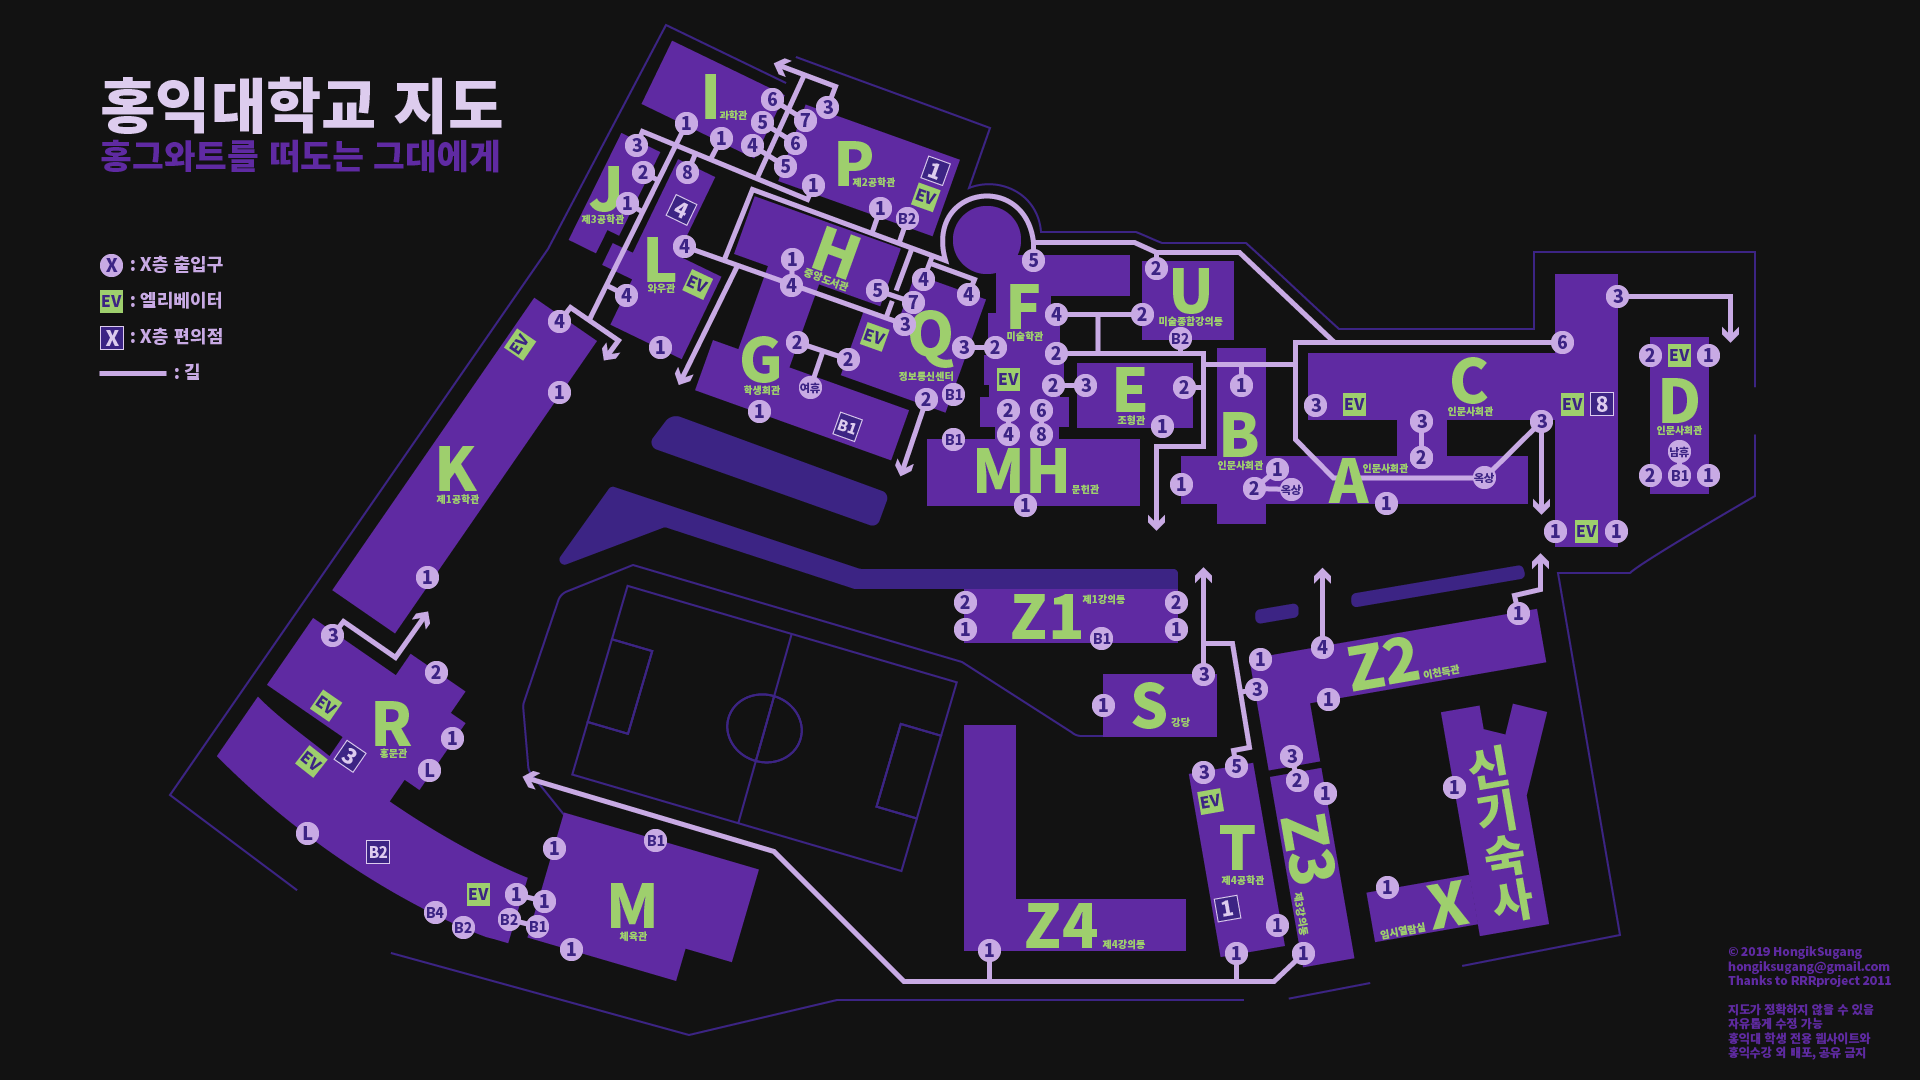
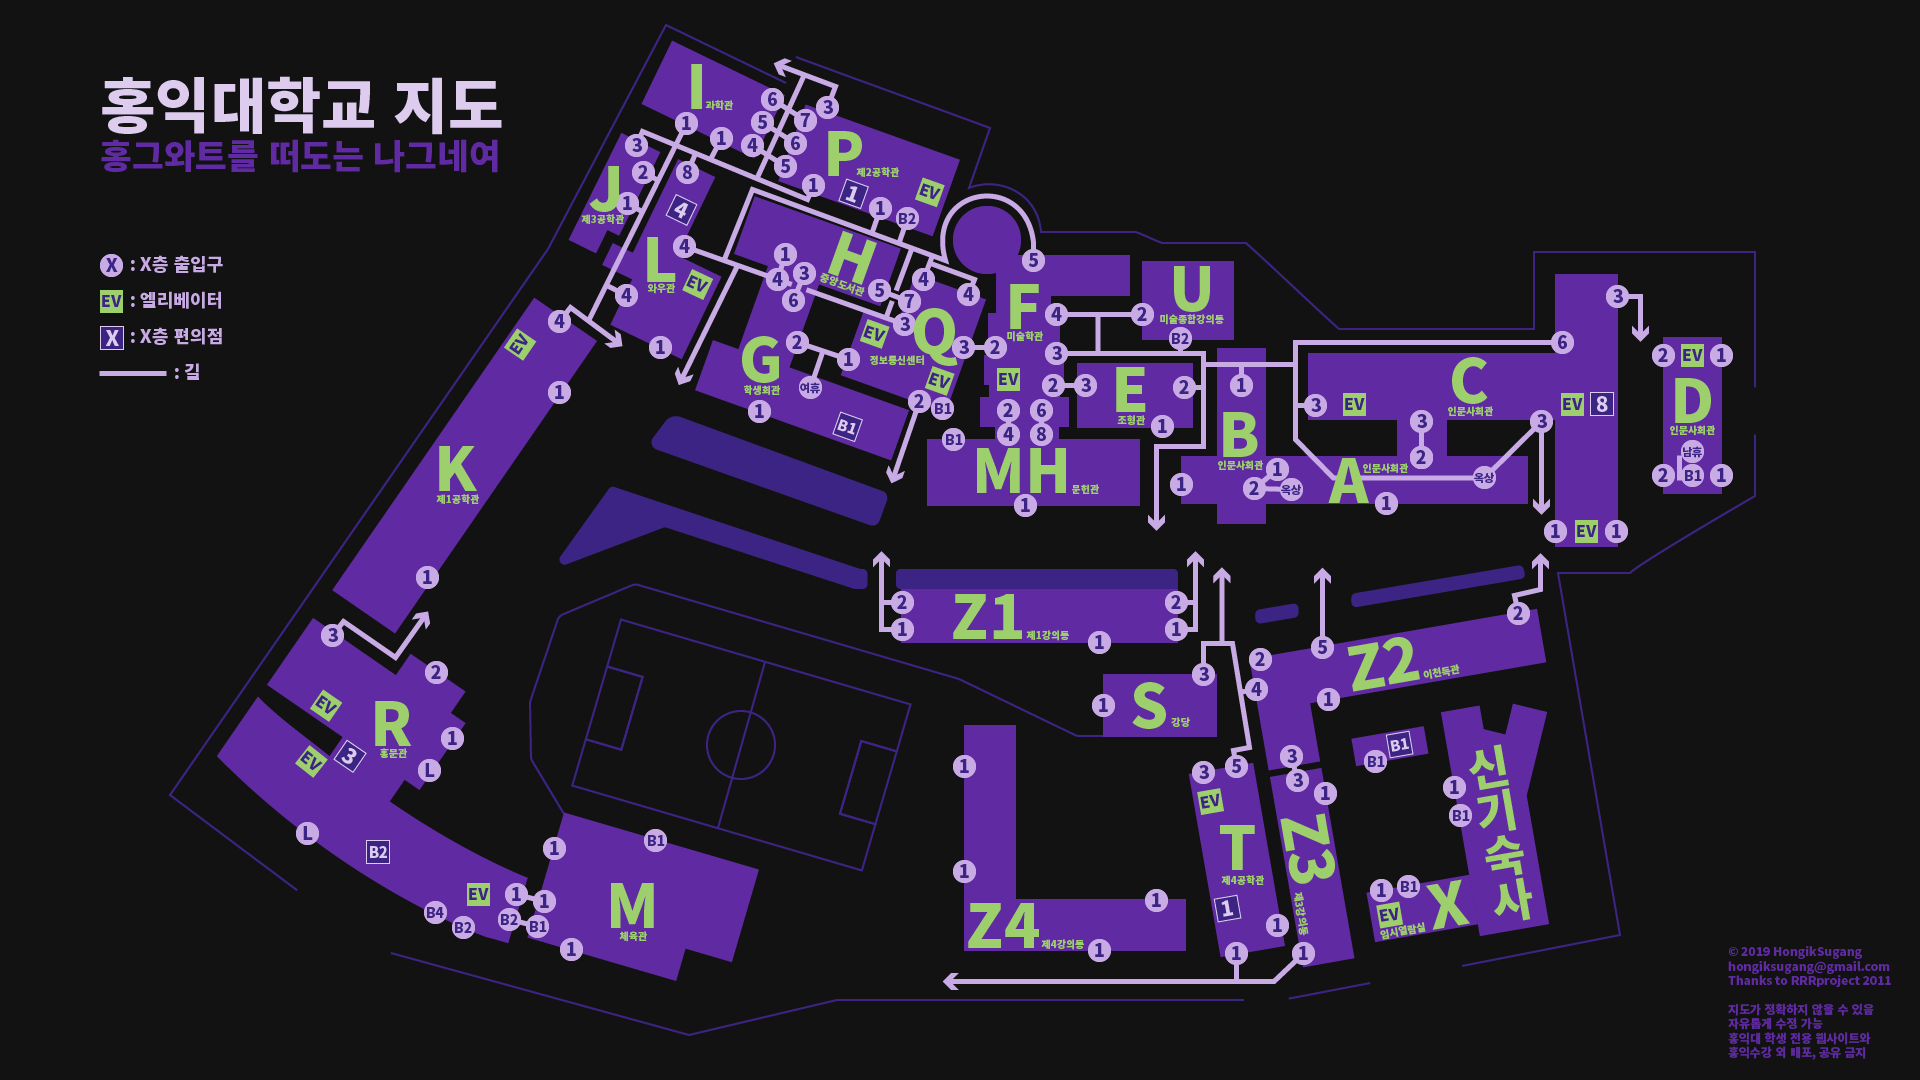
Fix map

diff --git a/map.html b/map.html
@@ -57,7 +57,7 @@
       <section>
         <h3>홍그와트</h3>
         <p>
-          이곳은 겉모습은 평범해 보이지만, 그 안은 미로처럼 얽혀 있어 주변 지리에 밝은 사람조차 길을 헤매게 만드는 곳이다. 몇몇 탐험가들이 만든 지도가 이곳을 지나다니는 많은 사람이 길을 잃지 않게 해주었으나 오랜 세월이 흘러 이젠 지도를 봐도 알 수 없는 건물과 길이 많이 생겼다. 이에 본인은 이전에 존재하던 지도를 참고하여 이곳의 지도를 새로 만들었다. 그러나, 이 지도 또한 실제와 다른 부분이 있을 수 있다. 이러한 부분을 발견할 경우 제작자에게 알려주거나, 너무 오랜 세월이 지났을 경우 직접 수정하여 다른 사람이 길을 헤매지 않게 도움을 줄 수 있기를 바란다. *이 지도를 외부로 유출하는 일은 없어야 할 것이다. <br> <br>
+          이곳은 겉모습은 평범해 보이지만, 그 안은 미로처럼 얽혀 있어 주변 지리에 밝은 사람조차 길을 헤매게 만드는 곳이다. 몇몇 탐험가들이 만든 지도가 이곳을 지나다니는 많은 사람이 길을 잃지 않게 해주었으나 오랜 세월이 흘러 이젠 지도를 봐도 알 수 없는 건물과 길이 많이 생겼다. 이에 본인은 이전에 존재하던 지도를 참고하여 이곳의 지도를 새로 만들었다. 그러나, 이 지도 또한 실제와 다른 부분이 있을 수 있다. 이러한 부분을 발견할 경우 제작자에게 알려주거나, 너무 오랜 세월이 지났을 경우 직접 수정하여 다른 사람이 길을 헤매지 않게 도움을 줄 수 있기를 바란다.
           <b>- 2019년 9월 12일</b>
         </p>
         <h4><a target="_blank" rel="noopener noreferrer" href="https://drive.google.com/open?id=1wxnuPHpsFG_sbWylQS9VuVqmkHiFvlUP">지도 내려받기</a></h4>

diff --git a/pc.html b/pc.html
@@ -62,6 +62,7 @@
         <h5>R524</h5> <h6>홍문관 5층</h6> <br>
         <h5>R915</h5> <h6>홍문관 9층</h6> <br>
         <h5>K611</h5> <h6>제1공학관 6층</h6> <br>
+        <h5>G6</h5> <h6>학생회관 6층</h6> <br>
         <h5>Q101</h5> <h6>정보통신센터 1층</h6> <br>
         <h5>F101</h5> <h6>미술학관 1층</h6> <br>
         <h5>Z2-601</h5> <h6>이천득관 6층</h6> <br>
@@ -69,9 +70,6 @@
 
         <h3>컬러 프린트를 해야 한다면?</h3>
         <h4>학생회관 1층 (유료)</h4>
-
-        <h3>단과대 전용 PC실</h3>
-        <h4>몰라 알려줘</h4>
       </section>
     </article>
   </main>

diff --git a/about.html b/about.html
@@ -62,6 +62,8 @@
           <h6>2019.09.04</h6> <b>홍익수강 공개</b> <br>
           <h6>2019.09.12</h6>
           <b>학교 지도, PC실 위치 추가</b>
+          <h6>2019.09.26</h6>
+          <b>지도 수정</b>
         </p>
       </section>
     </article>
